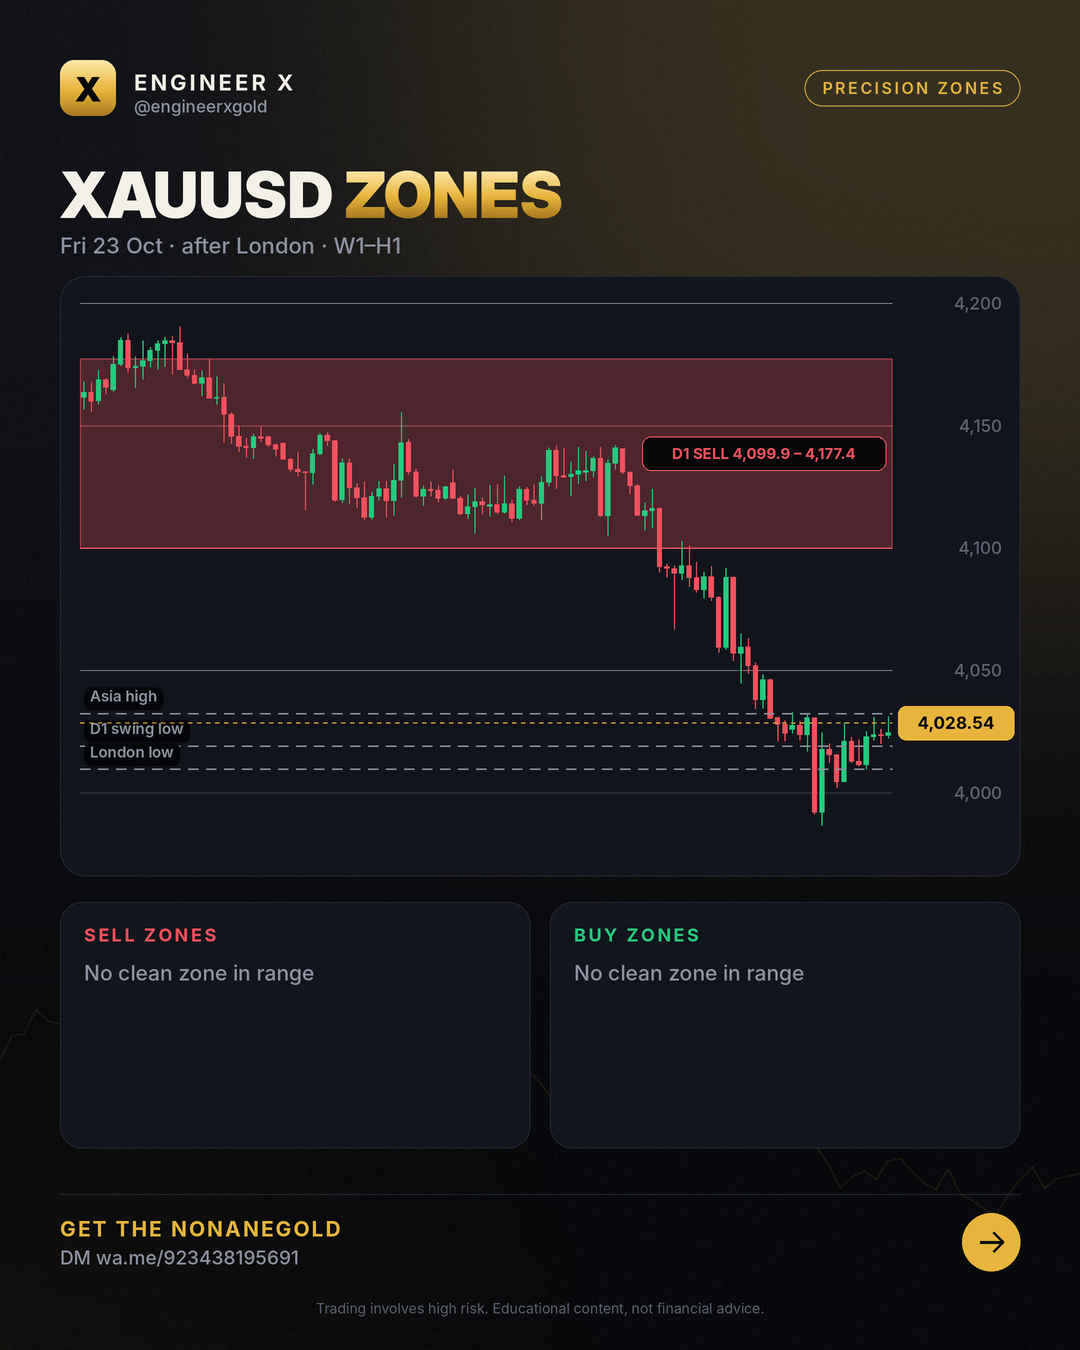
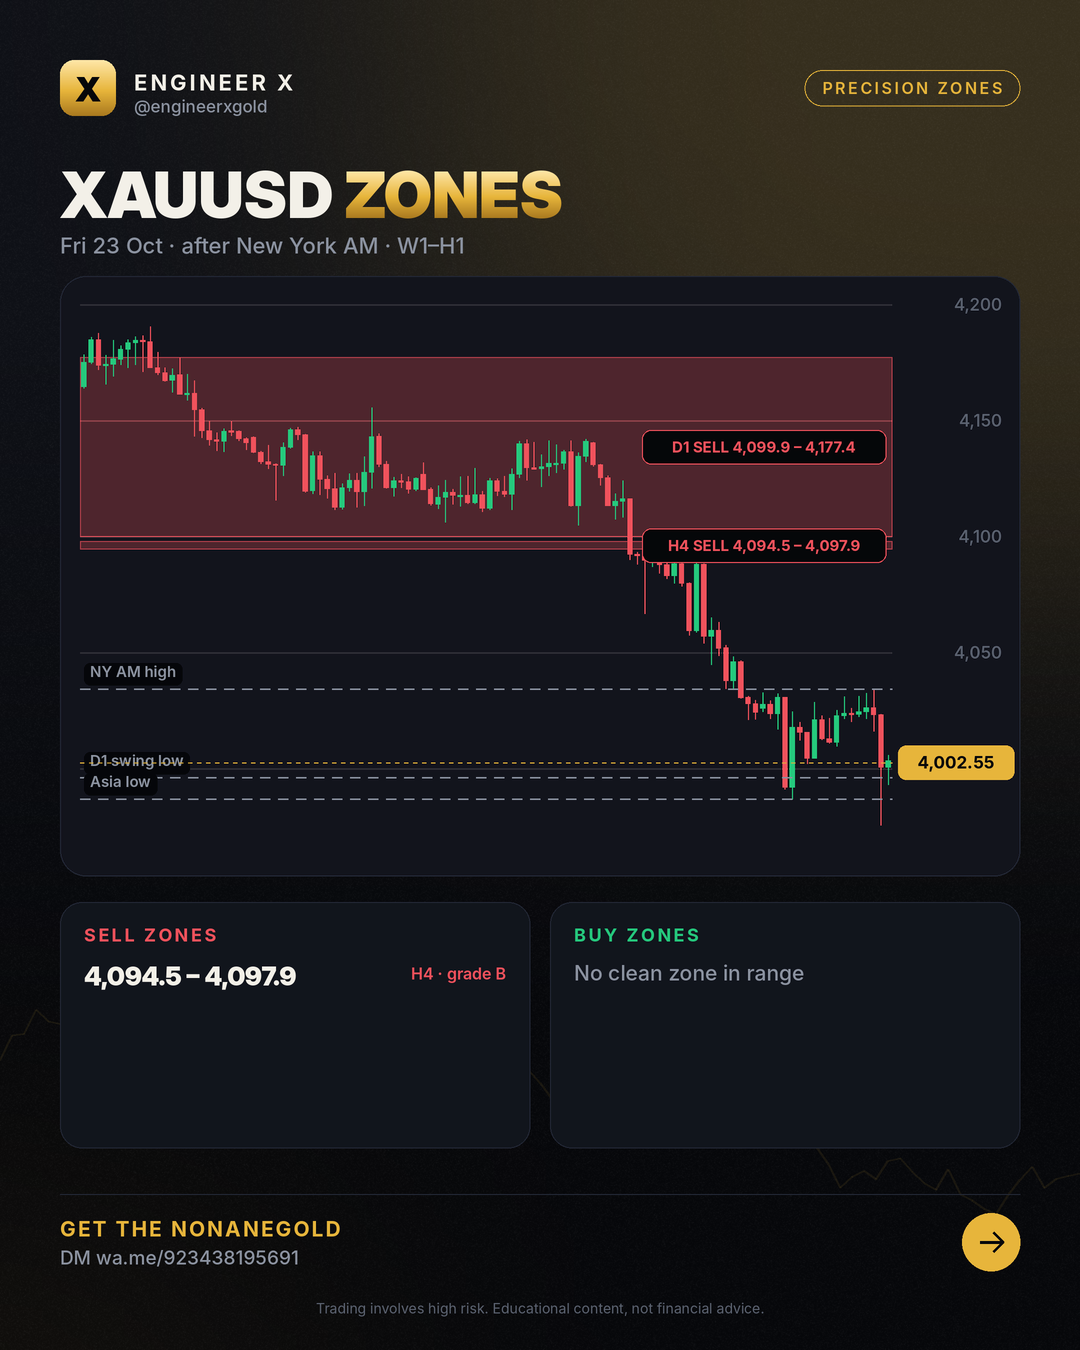
zones 2026-10-23 Fri 23 Oct · after New York AM · W1–H1

diff --git a/zones/2026-10-23/index.html b/zones/2026-10-23/index.html
@@ -4,7 +4,7 @@
 <meta charset="utf-8">
 <meta name="viewport" content="width=device-width,initial-scale=1">
 <title>Gold Support Resistance – 23 Oct 2026 (W1–H1)</title>
-<meta name="description" content="XAUUSD buy and sell zones for 2026-10-23: tested W1, D1, H4 and H1 zones with invalidation levels, updated after the Asian, London and New York sessions. Price 4,028.54.">
+<meta name="description" content="XAUUSD buy and sell zones for 2026-10-23: tested W1, D1, H4 and H1 zones with invalidation levels, updated after the Asian, London and New York sessions. Price 4,002.55.">
 <meta name="robots" content="index,follow,max-image-preview:large,max-snippet:-1,max-video-preview:-1">
 <meta name="author" content="Engr. M Ahmad Mehmood">
 <link rel="canonical" href="https://engineerxgold.github.io/zones/2026-10-23/">
@@ -12,7 +12,7 @@
 <link rel="apple-touch-icon" href="../../img/logo.png">
 <meta property="og:site_name" content="Engineer X">
 <meta property="og:title" content="Gold Support Resistance – 23 Oct 2026 (W1–H1)">
-<meta property="og:description" content="XAUUSD buy and sell zones for 2026-10-23: tested W1, D1, H4 and H1 zones with invalidation levels, updated after the Asian, London and New York sessions. Price 4,028.54.">
+<meta property="og:description" content="XAUUSD buy and sell zones for 2026-10-23: tested W1, D1, H4 and H1 zones with invalidation levels, updated after the Asian, London and New York sessions. Price 4,002.55.">
 <meta property="og:type" content="article">
 <meta property="og:url" content="https://engineerxgold.github.io/zones/2026-10-23/">
 <meta property="og:image" content="https://engineerxgold.github.io/zones/img/2026-10-23.png">
@@ -22,7 +22,7 @@
 <meta property="og:locale" content="en_US">
 <meta name="twitter:card" content="summary_large_image">
 <meta name="twitter:title" content="Gold Support Resistance – 23 Oct 2026 (W1–H1)">
-<meta name="twitter:description" content="XAUUSD buy and sell zones for 2026-10-23: tested W1, D1, H4 and H1 zones with invalidation levels, updated after the Asian, London and New York sessions. Price 4,028.54.">
+<meta name="twitter:description" content="XAUUSD buy and sell zones for 2026-10-23: tested W1, D1, H4 and H1 zones with invalidation levels, updated after the Asian, London and New York sessions. Price 4,002.55.">
 <meta name="twitter:image" content="https://engineerxgold.github.io/zones/img/2026-10-23.png">
 <meta name="twitter:image:alt" content="Gold Support Resistance – 23 Oct 2026 (W1–H1)">
 
@@ -32,7 +32,7 @@
 <link rel="preconnect" href="https://fonts.googleapis.com">
 <link rel="preconnect" href="https://fonts.gstatic.com" crossorigin>
 <link href="https://fonts.googleapis.com/css2?family=Inter:wght@400;500;600;800;900&display=swap" rel="stylesheet">
-<script type="application/ld+json">{"@context": "https://schema.org", "@type": "Organization", "@id": "https://engineerxgold.github.io/#organization", "name": "Engineer X", "url": "https://engineerxgold.github.io/", "logo": {"@type": "ImageObject", "url": "https://engineerxgold.github.io/img/logo.png", "width": 512, "height": 512}, "sameAs": ["https://t.me/engineerxgold"]}</script><script type="application/ld+json">{"@context": "https://schema.org", "@type": "Article", "headline": "Gold Support Resistance – 23 Oct 2026 (W1–H1)", "datePublished": "2026-10-23T08:00:00+05:00", "dateModified": "2026-10-23T17:52:56+05:00", "author": {"@type": "Person", "@id": "https://engineerxgold.github.io/about/#author", "name": "Engr. M Ahmad Mehmood", "url": "https://engineerxgold.github.io/about/", "jobTitle": "MQL5 Expert Advisor developer and gold market analyst", "worksFor": {"@id": "https://engineerxgold.github.io/#organization"}}, "publisher": {"@id": "https://engineerxgold.github.io/#organization"}, "image": "https://engineerxgold.github.io/zones/img/2026-10-23.png", "mainEntityOfPage": "https://engineerxgold.github.io/zones/2026-10-23/"}</script>
+<script type="application/ld+json">{"@context": "https://schema.org", "@type": "Organization", "@id": "https://engineerxgold.github.io/#organization", "name": "Engineer X", "url": "https://engineerxgold.github.io/", "logo": {"@type": "ImageObject", "url": "https://engineerxgold.github.io/img/logo.png", "width": 512, "height": 512}, "sameAs": ["https://t.me/engineerxgold"]}</script><script type="application/ld+json">{"@context": "https://schema.org", "@type": "Article", "headline": "Gold Support Resistance – 23 Oct 2026 (W1–H1)", "datePublished": "2026-10-23T08:00:00+05:00", "dateModified": "2026-10-23T21:03:53+05:00", "author": {"@type": "Person", "@id": "https://engineerxgold.github.io/about/#author", "name": "Engr. M Ahmad Mehmood", "url": "https://engineerxgold.github.io/about/", "jobTitle": "MQL5 Expert Advisor developer and gold market analyst", "worksFor": {"@id": "https://engineerxgold.github.io/#organization"}}, "publisher": {"@id": "https://engineerxgold.github.io/#organization"}, "image": "https://engineerxgold.github.io/zones/img/2026-10-23.png", "mainEntityOfPage": "https://engineerxgold.github.io/zones/2026-10-23/"}</script>
 
 <style>
 :root{--gold:#E7B53B;--gold-hi:#FFE7A8;--bg:#07080B;--bg2:#0E1016;--panel:#12151D;--line:#232836;--green:#25C97D;--red:#F0525C;--text:#F3F0E8;--muted:#8C93A1}
@@ -101,7 +101,7 @@ footer .fl a{color:var(--muted);margin-right:16px}
 <div class="wrap">
 <nav><a class="logo" href="../../"><b>X</b>Engineer X</a>
 <div class="links"><a href="../../zones/">Daily Zones</a><a href="../../blog/">Learn</a><a href="../../ea/">Gold EA</a><a href="../../about/">About</a><a class="cta" href="https://wa.me/923438195691">Get the EA</a></div></nav>
-<article><p class="crumbs"><a href="../../">Home</a> › <a href="../">Zones</a> › 2026-10-23</p><h1>Gold Support Resistance – 23 Oct 2026 (W1–H1)</h1><p class="byline">Fri 23 Oct · after London · W1–H1 · by Engr. M Ahmad Mehmood</p><img src="../img/2026-10-23.png" alt="XAUUSD zone map 2026-10-23" width="1080" height="1350" loading="eager"><h2>Zones</h2><div style="overflow-x:auto"><table style="width:100%;border-collapse:collapse;font-size:15px"><tr><th align=left>Zone</th><th align=left>Price band</th><th>Grade</th><th align=left>Invalid</th><th align=left>Why</th></tr><tr><td>D1 sell</td><td><b>4,099.92 – 4,177.43</b></td><td>B</td><td>above 4,181.17</td><td>D1 order block 4099.92–4177.43: last up candle before the move, traded through (S15); entry level 4099.92</td></tr></table></div><h2>How to read this map</h2><p>Bands are where price is expected to react; they are not entries. Trading beyond the invalidation price ends the zone; each zone counts once (first touch). Highs and lows listed as liquidity are targets: on 10 years of gold price ran through them more often than through random levels.</p><div class="ctabox"><h3>🤖 Trade the zones with the NonaneGold</h3><p>Free signals group access + setup help Message us and we will help you set it up.</p><div class="btns"><a class="btn gold" href="https://wa.me/923438195691">Get the EA on Telegram</a><a class="btn ghost" href="../../ea/">About the EA</a></div></div></article>
+<article><p class="crumbs"><a href="../../">Home</a> › <a href="../">Zones</a> › 2026-10-23</p><h1>Gold Support Resistance – 23 Oct 2026 (W1–H1)</h1><p class="byline">Fri 23 Oct · after New York AM · W1–H1 · by Engr. M Ahmad Mehmood</p><img src="../img/2026-10-23.png" alt="XAUUSD zone map 2026-10-23" width="1080" height="1350" loading="eager"><h2>Zones</h2><div style="overflow-x:auto"><table style="width:100%;border-collapse:collapse;font-size:15px"><tr><th align=left>Zone</th><th align=left>Price band</th><th>Grade</th><th align=left>Invalid</th><th align=left>Why</th></tr><tr><td>D1 sell</td><td><b>4,099.92 – 4,177.43</b></td><td>B</td><td>above 4,181.67</td><td>D1 order block 4099.92–4177.43: last up candle before the move, traded through (S15); entry level 4099.92</td></tr><tr><td>H4 sell</td><td><b>4,094.51 – 4,097.90</b></td><td>B</td><td>above 4,113.16</td><td>OTE 0.705 of the H4 leg 4141.99 → 3986.79 (S35; 0.62–0.79 = 4083.01–4109.40)</td></tr></table></div><h2>How to read this map</h2><p>Bands are where price is expected to react; they are not entries. Trading beyond the invalidation price ends the zone; each zone counts once (first touch). Highs and lows listed as liquidity are targets: on 10 years of gold price ran through them more often than through random levels.</p><div class="ctabox"><h3>🤖 Trade the zones with the NonaneGold</h3><p>Free signals group access + setup help Message us and we will help you set it up.</p><div class="btns"><a class="btn gold" href="https://wa.me/923438195691">Get the EA on Telegram</a><a class="btn ghost" href="../../ea/">About the EA</a></div></div></article>
 <footer>
 <div class="warn"><b>Risk warning:</b> Trading gold, forex and CFDs carries a high risk of losing money and is not suitable for everyone. Past results do not guarantee future results. Everything on this site is educational and not financial advice. We are an introducing partner of our broker and may earn a commission on accounts opened through our link.</div>
 <p class="fl" style="margin-top:18px"><a href="../../about/">About &amp; methodology</a><a href="../../privacy.html">Privacy</a><a href="../../terms.html">Terms &amp; risk disclosure</a><a href="../../feed.xml">RSS</a><a href="https://t.me/engineerxgold">Telegram</a></p>

diff --git a/zones/index.html b/zones/index.html
@@ -4,7 +4,7 @@
 <meta charset="utf-8">
 <meta name="viewport" content="width=device-width,initial-scale=1">
 <title>XAUUSD Zones Today – Buy &amp; Sell Zones (H4, H1) | Engineer X</title>
-<meta name="description" content="XAUUSD buy and sell zones for 2026-10-23: tested W1, D1, H4 and H1 zones with invalidation levels, updated after the Asian, London and New York sessions. Price 4,028.54.">
+<meta name="description" content="XAUUSD buy and sell zones for 2026-10-23: tested W1, D1, H4 and H1 zones with invalidation levels, updated after the Asian, London and New York sessions. Price 4,002.55.">
 <meta name="robots" content="index,follow,max-image-preview:large,max-snippet:-1,max-video-preview:-1">
 <meta name="author" content="Engr. M Ahmad Mehmood">
 <link rel="canonical" href="https://engineerxgold.github.io/zones/">
@@ -12,7 +12,7 @@
 <link rel="apple-touch-icon" href="../img/logo.png">
 <meta property="og:site_name" content="Engineer X">
 <meta property="og:title" content="XAUUSD Zones Today – Buy &amp; Sell Zones (H4, H1) | Engineer X">
-<meta property="og:description" content="XAUUSD buy and sell zones for 2026-10-23: tested W1, D1, H4 and H1 zones with invalidation levels, updated after the Asian, London and New York sessions. Price 4,028.54.">
+<meta property="og:description" content="XAUUSD buy and sell zones for 2026-10-23: tested W1, D1, H4 and H1 zones with invalidation levels, updated after the Asian, London and New York sessions. Price 4,002.55.">
 <meta property="og:type" content="website">
 <meta property="og:url" content="https://engineerxgold.github.io/zones/">
 <meta property="og:image" content="https://engineerxgold.github.io/zones/img/2026-10-23.png">
@@ -22,7 +22,7 @@
 <meta property="og:locale" content="en_US">
 <meta name="twitter:card" content="summary_large_image">
 <meta name="twitter:title" content="XAUUSD Zones Today – Buy &amp; Sell Zones (H4, H1) | Engineer X">
-<meta name="twitter:description" content="XAUUSD buy and sell zones for 2026-10-23: tested W1, D1, H4 and H1 zones with invalidation levels, updated after the Asian, London and New York sessions. Price 4,028.54.">
+<meta name="twitter:description" content="XAUUSD buy and sell zones for 2026-10-23: tested W1, D1, H4 and H1 zones with invalidation levels, updated after the Asian, London and New York sessions. Price 4,002.55.">
 <meta name="twitter:image" content="https://engineerxgold.github.io/zones/img/2026-10-23.png">
 <meta name="twitter:image:alt" content="XAUUSD Zones Today – Buy &amp; Sell Zones (H4, H1) | Engineer X">
 
@@ -101,7 +101,7 @@ footer .fl a{color:var(--muted);margin-right:16px}
 <div class="wrap">
 <nav><a class="logo" href="../"><b>X</b>Engineer X</a>
 <div class="links"><a href="../zones/">Daily Zones</a><a href="../blog/">Learn</a><a href="../ea/">Gold EA</a><a href="../about/">About</a><a class="cta" href="https://wa.me/923438195691">Get the EA</a></div></nav>
-<section class="hero"><span class="chip">Updated Fri 23 Oct · after London · W1–H1</span><h1>XAUUSD <span class="gold">precision zones</span></h1><p>XAUUSD buy and sell zones for 2026-10-23: tested W1, D1, H4 and H1 zones with invalidation levels, updated after the Asian, London and New York sessions. Price 4,028.54.</p></section><img src="img/2026-10-23.png" alt="Latest XAUUSD zone map" width="1080" height="1350"><section><h2>Current zones</h2><div style="overflow-x:auto"><table style="width:100%;border-collapse:collapse;font-size:15px"><tr><th align=left>Zone</th><th align=left>Price band</th><th>Grade</th><th align=left>Invalid</th><th align=left>Why</th></tr><tr><td>D1 sell</td><td><b>4,099.92 – 4,177.43</b></td><td>B</td><td>above 4,181.17</td><td>D1 order block 4099.92–4177.43: last up candle before the move, traded through (S15); entry level 4099.92</td></tr></table></div></section><section><h2>Honest scorecard</h2><div class="grid"><div class="card"><div class="n">148</div><p>zones published (30 days)</p></div><div class="card"><div class="n">84</div><p>held (moved 1 hourly ATR away)</p></div><div class="card"><div class="n">7</div><p>broke (traded beyond the invalidation)</p></div><div class="card"><div class="n">92%</div><p>hold rate of decided zones</p></div></div></section><div class="ctabox"><h3>🤖 Trade the zones with the NonaneGold</h3><p>Free signals group access + setup help Message us and we will help you set it up.</p><div class="btns"><a class="btn gold" href="https://wa.me/923438195691">Get the EA on Telegram</a><a class="btn ghost" href="../ea/">About the EA</a></div></div><section><h2>Archive</h2><div class="grid posts"><a class="card" href="2026-10-23/"><span class="date">2026-10-23</span><h3>XAUUSD zones 2026-10-23</h3></a><a class="card" href="2026-10-22/"><span class="date">2026-10-22</span><h3>XAUUSD zones 2026-10-22</h3></a><a class="card" href="2026-10-21/"><span class="date">2026-10-21</span><h3>XAUUSD zones 2026-10-21</h3></a><a class="card" href="2026-10-20/"><span class="date">2026-10-20</span><h3>XAUUSD zones 2026-10-20</h3></a><a class="card" href="2026-10-19/"><span class="date">2026-10-19</span><h3>XAUUSD zones 2026-10-19</h3></a><a class="card" href="2026-10-16/"><span class="date">2026-10-16</span><h3>XAUUSD zones 2026-10-16</h3></a><a class="card" href="2026-10-15/"><span class="date">2026-10-15</span><h3>XAUUSD zones 2026-10-15</h3></a><a class="card" href="2026-10-14/"><span class="date">2026-10-14</span><h3>XAUUSD zones 2026-10-14</h3></a><a class="card" href="2026-10-13/"><span class="date">2026-10-13</span><h3>XAUUSD zones 2026-10-13</h3></a></div></section>
+<section class="hero"><span class="chip">Updated Fri 23 Oct · after New York AM · W1–H1</span><h1>XAUUSD <span class="gold">precision zones</span></h1><p>XAUUSD buy and sell zones for 2026-10-23: tested W1, D1, H4 and H1 zones with invalidation levels, updated after the Asian, London and New York sessions. Price 4,002.55.</p></section><img src="img/2026-10-23.png" alt="Latest XAUUSD zone map" width="1080" height="1350"><section><h2>Current zones</h2><div style="overflow-x:auto"><table style="width:100%;border-collapse:collapse;font-size:15px"><tr><th align=left>Zone</th><th align=left>Price band</th><th>Grade</th><th align=left>Invalid</th><th align=left>Why</th></tr><tr><td>D1 sell</td><td><b>4,099.92 – 4,177.43</b></td><td>B</td><td>above 4,181.67</td><td>D1 order block 4099.92–4177.43: last up candle before the move, traded through (S15); entry level 4099.92</td></tr><tr><td>H4 sell</td><td><b>4,094.51 – 4,097.90</b></td><td>B</td><td>above 4,113.16</td><td>OTE 0.705 of the H4 leg 4141.99 → 3986.79 (S35; 0.62–0.79 = 4083.01–4109.40)</td></tr></table></div></section><section><h2>Honest scorecard</h2><div class="grid"><div class="card"><div class="n">148</div><p>zones published (30 days)</p></div><div class="card"><div class="n">84</div><p>held (moved 1 hourly ATR away)</p></div><div class="card"><div class="n">7</div><p>broke (traded beyond the invalidation)</p></div><div class="card"><div class="n">92%</div><p>hold rate of decided zones</p></div></div></section><div class="ctabox"><h3>🤖 Trade the zones with the NonaneGold</h3><p>Free signals group access + setup help Message us and we will help you set it up.</p><div class="btns"><a class="btn gold" href="https://wa.me/923438195691">Get the EA on Telegram</a><a class="btn ghost" href="../ea/">About the EA</a></div></div><section><h2>Archive</h2><div class="grid posts"><a class="card" href="2026-10-23/"><span class="date">2026-10-23</span><h3>XAUUSD zones 2026-10-23</h3></a><a class="card" href="2026-10-22/"><span class="date">2026-10-22</span><h3>XAUUSD zones 2026-10-22</h3></a><a class="card" href="2026-10-21/"><span class="date">2026-10-21</span><h3>XAUUSD zones 2026-10-21</h3></a><a class="card" href="2026-10-20/"><span class="date">2026-10-20</span><h3>XAUUSD zones 2026-10-20</h3></a><a class="card" href="2026-10-19/"><span class="date">2026-10-19</span><h3>XAUUSD zones 2026-10-19</h3></a><a class="card" href="2026-10-16/"><span class="date">2026-10-16</span><h3>XAUUSD zones 2026-10-16</h3></a><a class="card" href="2026-10-15/"><span class="date">2026-10-15</span><h3>XAUUSD zones 2026-10-15</h3></a><a class="card" href="2026-10-14/"><span class="date">2026-10-14</span><h3>XAUUSD zones 2026-10-14</h3></a><a class="card" href="2026-10-13/"><span class="date">2026-10-13</span><h3>XAUUSD zones 2026-10-13</h3></a></div></section>
 <footer>
 <div class="warn"><b>Risk warning:</b> Trading gold, forex and CFDs carries a high risk of losing money and is not suitable for everyone. Past results do not guarantee future results. Everything on this site is educational and not financial advice. We are an introducing partner of our broker and may earn a commission on accounts opened through our link.</div>
 <p class="fl" style="margin-top:18px"><a href="../about/">About &amp; methodology</a><a href="../privacy.html">Privacy</a><a href="../terms.html">Terms &amp; risk disclosure</a><a href="../feed.xml">RSS</a><a href="https://t.me/engineerxgold">Telegram</a></p>

diff --git a/index.html b/index.html
@@ -101,7 +101,7 @@ footer .fl a{color:var(--muted);margin-right:16px}
 <div class="wrap">
 <nav><a class="logo" href="./"><b>X</b>Engineer X</a>
 <div class="links"><a href="./zones/">Daily Zones</a><a href="./blog/">Learn</a><a href="./ea/">Gold EA</a><a href="./about/">About</a><a class="cta" href="https://wa.me/923438195691">Get the EA</a></div></nav>
-<section class="hero"><span class="chip">XAUUSD · W1–H1 · every session</span><h1>Gold <span class="gold">precision zones</span>, updated after every session</h1><p>Tested buy and sell zones with clear invalidation, a scorecard of every result, and the NonaneGold for traders who want it automated.</p><div class="btns"><a class="btn gold" href="zones/">See today's zones</a><a class="btn ghost" href="https://wa.me/923438195691">Get the EA</a></div></section><section><h2>Latest map Fri 23 Oct · after London · W1–H1</h2><img src="zones/img/2026-10-23.png" alt="Latest XAUUSD zones" width="1080" height="1350"></section><div class="ctabox"><h3>🤖 Trade the zones with the NonaneGold</h3><p>Free signals group access + setup help Message us and we will help you set it up.</p><div class="btns"><a class="btn gold" href="https://wa.me/923438195691">Get the EA on Telegram</a><a class="btn ghost" href="ea/">About the EA</a></div></div><section><h2>Learn</h2><div class="grid posts"><a class="card" href="blog/gold-supply-and-demand-zones-h4-trend-map/"><span class="date">2026-10-23</span><h3>Gold Supply and Demand Zones: H4 Trend Map</h3></a><a class="card" href="blog/gold-forecast-critical-h4-bearish-zones-liquidity/"><span class="date">2026-10-21</span><h3>Gold Forecast: Critical H4 Bearish Zones &amp; Liquidity</h3></a><a class="card" href="blog/gold-supply-and-demand-zones-h4-w1-map-analysis/"><span class="date">2026-10-20</span><h3>Gold Supply and Demand Zones: H4 &amp; W1 Map Analysis</h3></a><a class="card" href="blog/gold-trading-reading-h4-trend-liquidity-zones/"><span class="date">2026-10-19</span><h3>Gold Trading: Reading H4 Trend &amp; Liquidity Zones</h3></a><a class="card" href="blog/gold-support-resistance-live-technical-map-zones/"><span class="date">2026-10-18</span><h3>Gold Support Resistance: Live Technical Map &amp; Zones</h3></a><a class="card" href="blog/gold-supply-and-demand-zones-live-trading-map-guide/"><span class="date">2026-10-17</span><h3>Gold Supply and Demand Zones: Live Trading Map &amp; Guide</h3></a></div></section><section><h2>FAQ</h2><details><summary>What is a precision zone?</summary><p>A point of interest from a trading book (OTE 0.705, balanced price range, weekly close level, daily order block) that held better than random levels on 10 years of gold. Each zone has an invalidation price.</p></details><details><summary>How often are the zones updated?</summary><p>A daily plan at the Asian open, then after the Asian, London and New York sessions.</p></details><details><summary>Are these trade signals?</summary><p>No. Zones are areas to watch. Wait for your own confirmation and manage risk.</p></details><details><summary>How do I get the Gold EA?</summary><p>Message us on Telegram or WhatsApp; we answer and help with the setup.</p></details></section>
+<section class="hero"><span class="chip">XAUUSD · W1–H1 · every session</span><h1>Gold <span class="gold">precision zones</span>, updated after every session</h1><p>Tested buy and sell zones with clear invalidation, a scorecard of every result, and the NonaneGold for traders who want it automated.</p><div class="btns"><a class="btn gold" href="zones/">See today's zones</a><a class="btn ghost" href="https://wa.me/923438195691">Get the EA</a></div></section><section><h2>Latest map Fri 23 Oct · after New York AM · W1–H1</h2><img src="zones/img/2026-10-23.png" alt="Latest XAUUSD zones" width="1080" height="1350"></section><div class="ctabox"><h3>🤖 Trade the zones with the NonaneGold</h3><p>Free signals group access + setup help Message us and we will help you set it up.</p><div class="btns"><a class="btn gold" href="https://wa.me/923438195691">Get the EA on Telegram</a><a class="btn ghost" href="ea/">About the EA</a></div></div><section><h2>Learn</h2><div class="grid posts"><a class="card" href="blog/gold-supply-and-demand-zones-h4-trend-map/"><span class="date">2026-10-23</span><h3>Gold Supply and Demand Zones: H4 Trend Map</h3></a><a class="card" href="blog/gold-forecast-critical-h4-bearish-zones-liquidity/"><span class="date">2026-10-21</span><h3>Gold Forecast: Critical H4 Bearish Zones &amp; Liquidity</h3></a><a class="card" href="blog/gold-supply-and-demand-zones-h4-w1-map-analysis/"><span class="date">2026-10-20</span><h3>Gold Supply and Demand Zones: H4 &amp; W1 Map Analysis</h3></a><a class="card" href="blog/gold-trading-reading-h4-trend-liquidity-zones/"><span class="date">2026-10-19</span><h3>Gold Trading: Reading H4 Trend &amp; Liquidity Zones</h3></a><a class="card" href="blog/gold-support-resistance-live-technical-map-zones/"><span class="date">2026-10-18</span><h3>Gold Support Resistance: Live Technical Map &amp; Zones</h3></a><a class="card" href="blog/gold-supply-and-demand-zones-live-trading-map-guide/"><span class="date">2026-10-17</span><h3>Gold Supply and Demand Zones: Live Trading Map &amp; Guide</h3></a></div></section><section><h2>FAQ</h2><details><summary>What is a precision zone?</summary><p>A point of interest from a trading book (OTE 0.705, balanced price range, weekly close level, daily order block) that held better than random levels on 10 years of gold. Each zone has an invalidation price.</p></details><details><summary>How often are the zones updated?</summary><p>A daily plan at the Asian open, then after the Asian, London and New York sessions.</p></details><details><summary>Are these trade signals?</summary><p>No. Zones are areas to watch. Wait for your own confirmation and manage risk.</p></details><details><summary>How do I get the Gold EA?</summary><p>Message us on Telegram or WhatsApp; we answer and help with the setup.</p></details></section>
 <footer>
 <div class="warn"><b>Risk warning:</b> Trading gold, forex and CFDs carries a high risk of losing money and is not suitable for everyone. Past results do not guarantee future results. Everything on this site is educational and not financial advice. We are an introducing partner of our broker and may earn a commission on accounts opened through our link.</div>
 <p class="fl" style="margin-top:18px"><a href="./about/">About &amp; methodology</a><a href="./privacy.html">Privacy</a><a href="./terms.html">Terms &amp; risk disclosure</a><a href="./feed.xml">RSS</a><a href="https://t.me/engineerxgold">Telegram</a></p>
